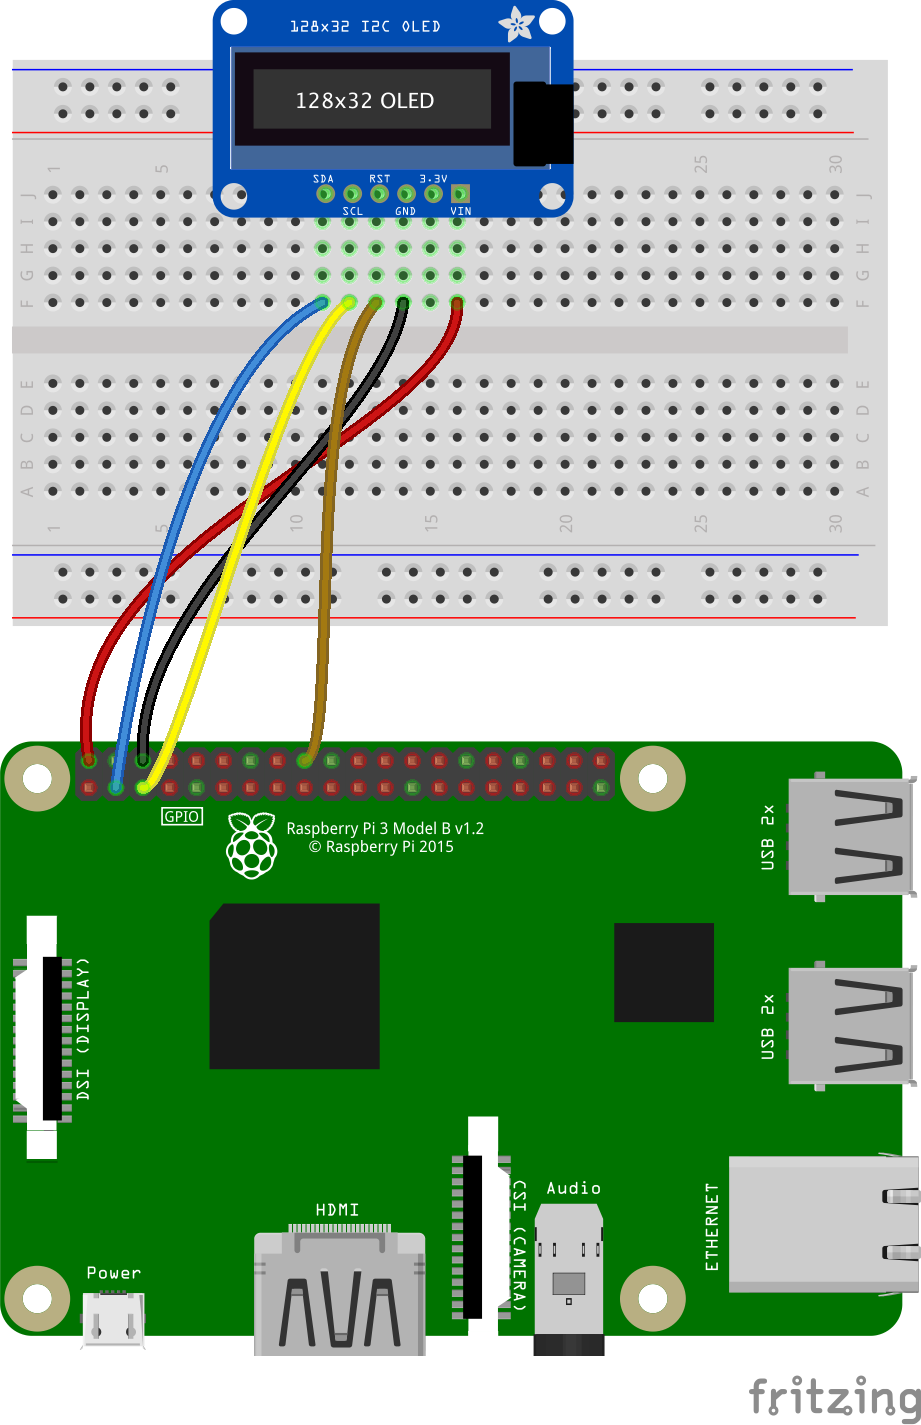
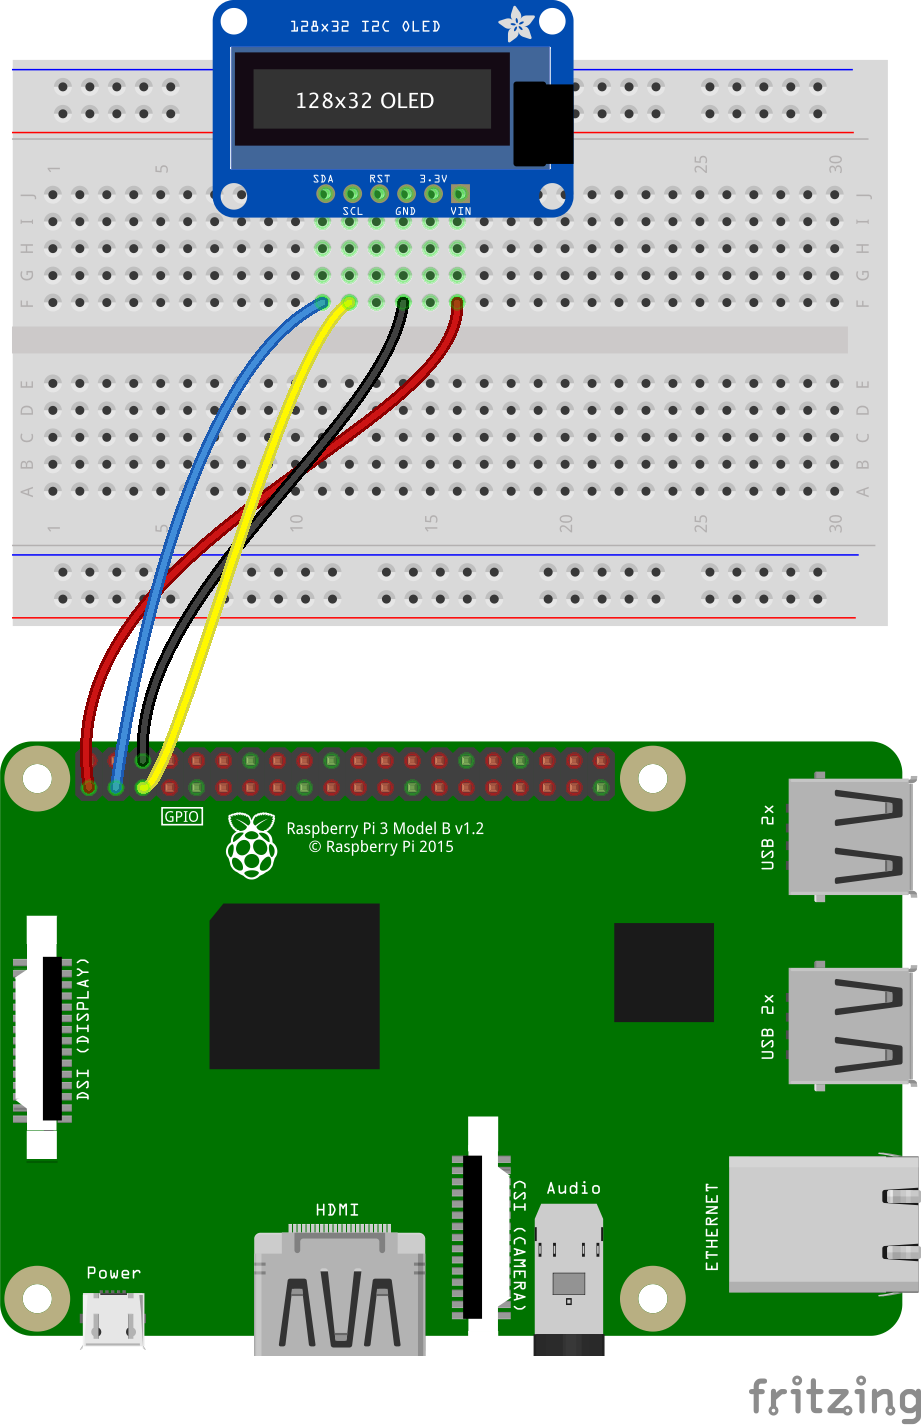
Diagrams

diff --git a/RasPISamples/src/java/raspisamples/adc/TwoJoyStick.java b/RasPISamples/src/java/raspisamples/adc/TwoJoyStick.java
@@ -7,6 +7,8 @@ import adc.ADCObserver;
 /**
  * A two-channel listener. Uses an MCP3008 to get the values of the 2 joystick's channels.
  * An example, for inspiration.
+ *
+ * Wiring at http://raspberrypi.lediouris.net/joystick/readme.html
  */
 public class TwoJoyStick {
 	private static ADCObserver.MCP3008_input_channels channel[] = null;

diff --git a/RasPISamples/src/java/raspisamples/adc/JoyStick.java b/RasPISamples/src/java/raspisamples/adc/JoyStick.java
@@ -9,6 +9,8 @@ import utils.PinUtil;
 /**
  * A two-channel listener. Uses an MCP3008 to get the values of the 2 joystick's channels.
  * An example, for inspiration.
+ *
+ * See joystick's wiring at http://raspberrypi.lediouris.net/joystick/readme.html
  */
 public class JoyStick {
 	// Default wiring for MCP3008

diff --git a/Processing/README.md b/Processing/README.md
@@ -132,6 +132,8 @@ Mirror - synchronously - the display of the SSD1306.
   </tr>
 </table>
 
+The `RST` pin is not necessary. And yes, the `3.3` goes to `Vin`.
+
 ## MeArm GUI
 [MeArm](https://shop.mime.co.uk/) is a ~$42 (2017) robotic arm, using four micro servos.
 - One to move the arm up and down (located at the LEFT of the arm)

diff --git a/Demos/OracleMakerFaire.md b/Demos/OracleMakerFaire.md
@@ -14,7 +14,7 @@
 - Show MCP3008 with SSD1306
 - Show Project
     - IoT with Adafruit-IO, Pebble watch
-    - Camera
+    - Camera - with pan-tilt servos and joystick.
     - SunFlower
     - NMEA.Multiplexer (recording, replay, rich web UI)
     - FONA
